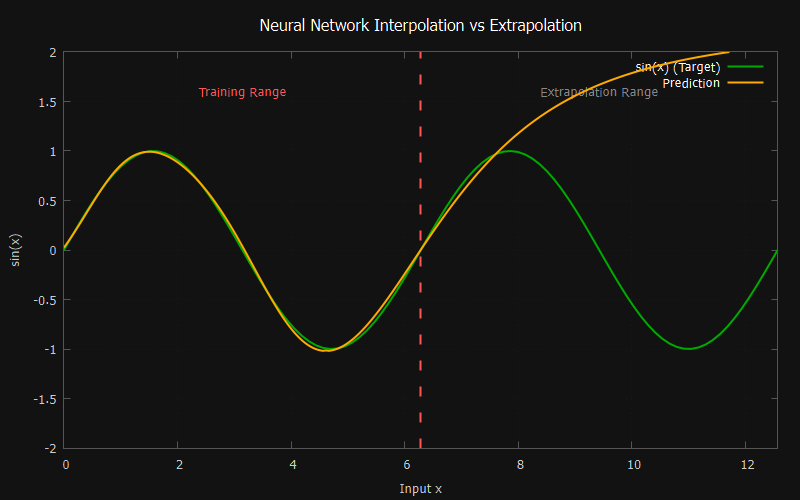
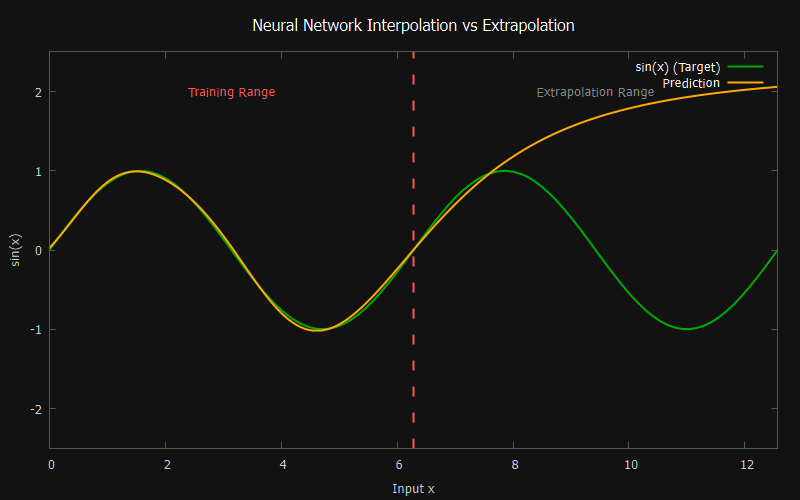
fix: png path

diff --git a/examples/visual_sin.c b/examples/visual_sin.c
@@ -93,20 +93,20 @@ Dataset init_data(double range, bool save_output){
 
 bool GNUPLOT(double *in, double *pred){
     size_t n_samples = SAMPLES(TS);
-    FILE *g = popen("gnuplot -persistant", "w");
+    FILE *g = popen("gnuplot", "w");
     if(!g){
         perror("gnuplot");
         return false;
     }
 
-    // fprintf(g, "set terminal pngcairo size 800,500 background rgb '#121212' font 'sans,10'\n");
-    // fprintf(g, "set output 'docs/interpolation_vs_extrapolation.png'\n");
+    fprintf(g, "set terminal pngcairo size 800,500 background rgb '#121212' font 'sans,10'\n");
+    fprintf(g, "set output '../docs/interpolation_vs_extrapolation.png'\n");
 
     /* purely for aesthetic purpose :) */
     fprintf(g, "set border lc rgb '#555555'\n");
     fprintf(g, "set grid lc rgb '#333333'\n");
     fprintf(g, "set xrange [0:%f]\n", TS);
-    fprintf(g, "set yrange [-2.0:2.0]\n");
+    fprintf(g, "set yrange [-2.5:2.5]\n");
     fprintf(g, "set xtics tc rgb '#cccccc'\n");
     fprintf(g, "set ytics tc rgb '#cccccc'\n");
     fprintf(g, "set title 'Neural Network Interpolation vs Extrapolation' tc rgb '#ffffff' font 'sans,12,bold'\n");

diff --git a/docs/getting_started.md b/docs/getting_started.md
@@ -201,6 +201,6 @@ The [`examples/`](../examples/) directory has four runnable programs:
   trains on it, predicts, and cleans up with `MLP_Destroy_Dataset`.
 - [`visual_sin.c`](../examples/visual_sin.c) — generates a training sine wave
   in memory, trains a network to fit it, predicts outputs over interpolation and
-  extrapolation ranges, and outputs a dark-mode visualization plot.
+  extrapolation ranges, and outputs a visualization plot.
 
   ![Interpolation vs Extrapolation](./interpolation_vs_extrapolation.png)